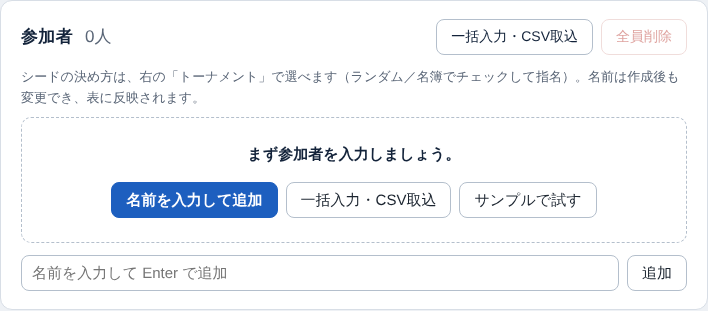
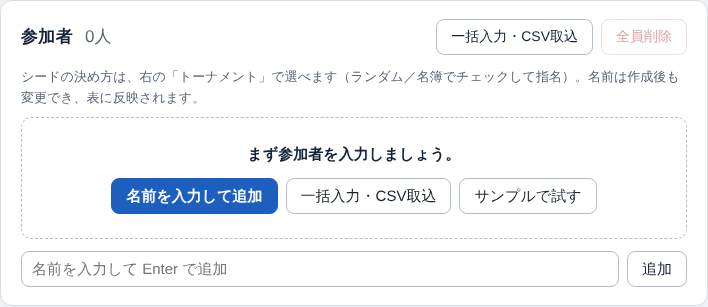
fix: 案内のボタン間隔を均等にし、値が無い大会データでも例外にしない（F6 レビュー指摘）
Claude-Session: https://claude.ai/code/session_01SDTuMLQ1vr1MD5zFdH4FPp

diff --git a/web/style.css b/web/style.css
@@ -353,8 +353,8 @@ table.data tr.flash td:last-child { box-shadow: inset -2px 2px 0 var(--primary),
 .empty-state button { margin-top: 12px; }
 .roster-empty { margin: 0 0 12px; padding: 24px 12px; border: 1px dashed var(--rule-strong); border-radius: 10px; }
 .roster-empty p { color: var(--ink); font-weight: bold; }
-.empty-actions { display: flex; flex-wrap: wrap; justify-content: center; gap: 8px; }
-.empty-actions button { margin-top: 12px; }
+.empty-actions { display: flex; flex-wrap: wrap; justify-content: center; gap: 8px; margin-top: 12px; }
+.empty-actions button { margin-top: 0; } /* 上の余白はコンテナに持たせる（.empty-state button の余白と重ねない） */
 .empty-actions button:not(.primary) { color: var(--text); } /* 親（.empty-state）の薄い文字色を引き継がない */
 @media (max-width: 700px) {
   .empty-actions { flex-direction: column; align-items: stretch; }

diff --git a/src/core/guide.js b/src/core/guide.js
@@ -13,7 +13,7 @@ export function emptyGuide(kind, st, { readOnly = false } = {}) {
   if (readOnly) {
     return { text: kind === 'standings' ? lead : `${lead}運営が作成するまでお待ちください。`, button: null };
   }
-  if (st.players.length < 2) {
+  if ((st?.players ?? []).length < 2) {
     return { text: `${lead}まず参加者を2人以上入力しましょう。`, button: { label: '参加者を入力する', goto: 'setup' } };
   }
   const next = kind === 'standings' ? '「参加者・設定」で、トーナメント表か総当たり表を作成しましょう。' : `「参加者・設定」で「${NAMES[kind]}を作成」を押してください。`;

diff --git a/src/core/sample.js b/src/core/sample.js
@@ -14,6 +14,7 @@ export const SAMPLE_TABLES = 2;
  * @returns {{ok:true, state:object} | {ok:false, error:string}}
  */
 export function sampleState(state) {
+  if (!state || !Array.isArray(state.players)) return { ok: false, error: '大会データが正しくありません' };
   if (state.players.length) return { ok: false, error: '参加者がいるときは、サンプルを入れられません' };
   const players = makePlayers(SAMPLE_NAMES);
   const plan = planSeeds(players, state.settings);

diff --git a/TEST_REPORT.md b/TEST_REPORT.md
@@ -6,7 +6,7 @@
 
 | 区分 | コマンド | 結果 |
 | --- | --- | --- |
-| 単体テスト | `npm test` | 261 / 261 成功（サンプル・案内 6、元に戻す 8、組み合わせの指定・入れ替え 6、出欠 13、試合の開始 16、状態バッジ 5（進行中を追加）、自分の試合 9、ダークの強調色 1、ダークモード 7、表彰 4＋呼び出し画面の表彰 2＋PNG の優勝者名 1、総当たりの絞り込み 8、参加者・設定の進み具合 3、回戦ごとの表示 5、トーナメント表の拡大縮小 4、順位の並びと金・銀・銅 6、結果カード 4、括弧の数 1、状態バッジ 3、色の定義 8、共有: Worker 25＋共有ロジック 7、回の管理 12、次の試合の選び方 4、呼び出し画面の内容 6、上位N人で次の回 7、シード 11、開催日時 6 を含む） |
+| 単体テスト | `npm test` | 262 / 262 成功（サンプル・案内 7、元に戻す 8、組み合わせの指定・入れ替え 6、出欠 13、試合の開始 16、状態バッジ 5（進行中を追加）、自分の試合 9、ダークの強調色 1、ダークモード 7、表彰 4＋呼び出し画面の表彰 2＋PNG の優勝者名 1、総当たりの絞り込み 8、参加者・設定の進み具合 3、回戦ごとの表示 5、トーナメント表の拡大縮小 4、順位の並びと金・銀・銅 6、結果カード 4、括弧の数 1、状態バッジ 3、色の定義 8、共有: Worker 25＋共有ロジック 7、回の管理 12、次の試合の選び方 4、呼び出し画面の内容 6、上位N人で次の回 7、シード 11、開催日時 6 を含む） |
 | E2E（ブラウザ） | `npm run test:e2e` | 273 / 273 成功（初回の案内とサンプル 12（幅390px・1280pxの各6）、元に戻す 15（幅390px・1280pxの各5＋共通4）と共有の運営・閲覧者 1、組み合わせの確認 18（幅390px・1280pxの各9）、出欠確認 24（幅390px・1280pxの各12）、試合の開始・卓の空き状況 20 と共有の閲覧者 1、自分の試合 22（幅390px・1280pxの各8＋共通6）と共有の閲覧者 1、ダークモード 6、表彰 12、操作感 20、2026-10-18 の修正後も再実行）（総当たりの絞り込み 14、参加者・設定の流れ 15（幅390px・1280pxの各5＋幅390pxの崩れ5）、回戦ごとの表示 9、トーナメント表の表示操作 8、順位表 2、結果カード 5、スマホのヘッダー・タブ 8、共有 8、回 3、保存して次へ 5、呼び出し画面 3、上位N人で次の回 3、シード 4、開催日時 3、スマホの結果入力シート 6、タブ・ポップ 4、状態バッジ・総当たりの記号 3 を含む） |
 | Electron 起動確認（Linux） | `npm run test:electron` | 成功 |
 | Windows exe ビルド（Linux からクロスビルド） | `npm run dist:win` | 成功（PE32 実行ファイル、asar の中身を確認） |
